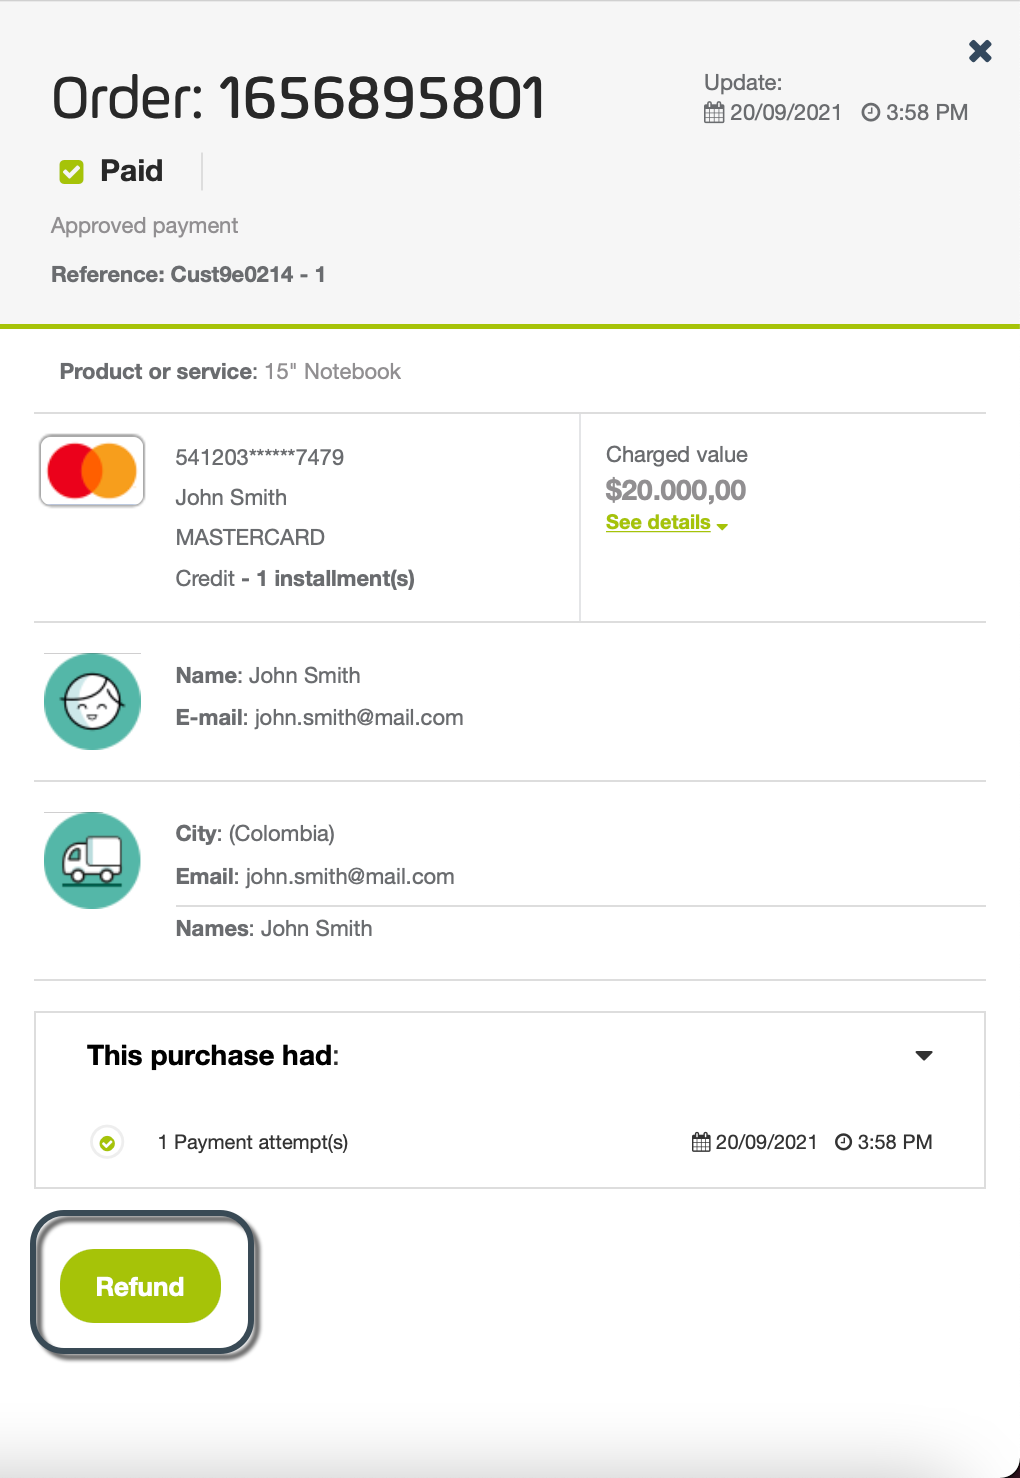
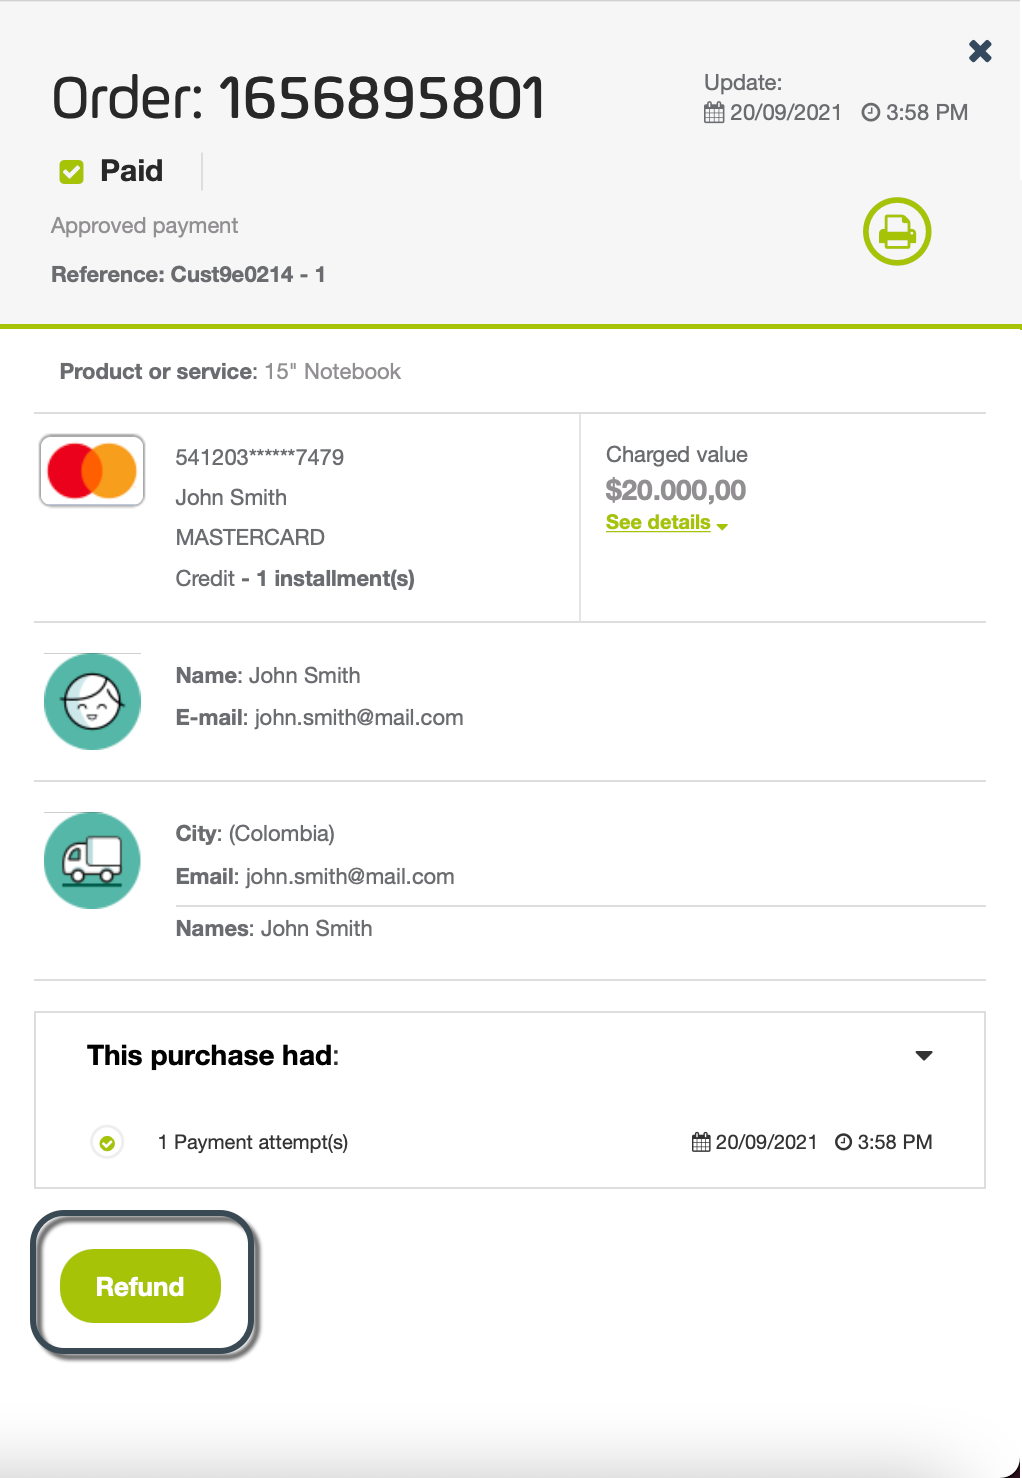
Changes for print button

diff --git a/content/es/PayU Module Documentation/PayU operations/Refunds-MP.md b/content/es/PayU Module Documentation/PayU operations/Refunds-MP.md
@@ -91,3 +91,32 @@ Para solicitar un reembolso, la transacción debe estar aprobada y sin ningún p
 7. Una vez aprobada la solicitud, el estado aparece en la venta.
 
 <img src="/assets/Refunds/Refunds_es_10.png" alt="PrintScreen" width="50%"/><br>
+
+## Obtener la confirmación del reembolso
+When the refund has been approved, you can generate a receipt or send the confirmation to the payer. To do this, follow the instructions depending on the operation you want to perform.
+
+### Generate the refund receipt
+To generate the refund receipt, locate the refunded sale and click the printer button located at the top right corner of the transaction details panel.
+
+<img src="/assets/Refunds/Refunds_en_11.png" alt="PrintScreen" width="50%"/><br>
+
+The print options of your browser opens, here you may physically print it or save it in PDF. The following image corresponds to the print options of Google Chrome.
+
+![PrintScreen](/assets/Refunds/Refunds_en_12.png)
+
+{{% alert title="Warning" color="warning"%}}
+The _Save to PDF_ option depends on your browser. If your browser does not support this feature, you can only print it using a printer.
+{{% /alert %}}
+
+### Send the refund confirmation to the payer
+Along with the print feature, you can also send a confirmation email to payer informing the result of the refund. This option is located in the _**Actions**_ section in the bottom of the transaction details panel.
+
+<img src="/assets/Refunds/Refunds_en_13.png" alt="PrintScreen" width="50%"/><br>
+
+Once you click this button, the payer receives an email with the details of the refunds.
+
+<img src="/assets/Refunds/Refunds_en_14.png" alt="PrintScreen" width="50%"/><br>
+
+{{% alert title="Note" color="info"%}}
+You can enable the automatic send of the refund confirmation to the payer. To know more details about this option, contact your Sales representative.
+{{% /alert %}}

diff --git a/content/en/PayU Module Documentation/PayU operations/Refunds-MP.md b/content/en/PayU Module Documentation/PayU operations/Refunds-MP.md
@@ -91,3 +91,32 @@ To request a refund, the transaction must be approved and without any pending di
 7. Once the request has been approved, the status appears in the sale.
 
 <img src="/assets/Refunds/Refunds_en_10.png" alt="PrintScreen" width="50%"/><br>
+
+## Getting the refund confirmation
+When the refund has been approved, you can generate a receipt or send the confirmation to the payer. To do this, follow the instructions depending on the operation you want to perform.
+
+### Generate the refund receipt
+To generate the refund receipt, locate the refunded sale and click the printer button located at the top right corner of the transaction details panel.
+
+<img src="/assets/Refunds/Refunds_en_11.png" alt="PrintScreen" width="50%"/><br>
+
+The print options of your browser opens, here you may physically print it or save it in PDF. The following image corresponds to the print options of Google Chrome.
+
+![PrintScreen](/assets/Refunds/Refunds_en_12.png)
+
+{{% alert title="Warning" color="warning"%}}
+The _Save to PDF_ option depends on your browser. If your browser does not support this feature, you can only print it using a printer.
+{{% /alert %}}
+
+### Send the refund confirmation to the payer
+Along with the print feature, you can also send a confirmation email to payer informing the result of the refund. This option is located in the _**Actions**_ section in the bottom of the transaction details panel.
+
+<img src="/assets/Refunds/Refunds_en_13.png" alt="PrintScreen" width="50%"/><br>
+
+Once you click this button, the payer receives an email with the details of the refunds.
+
+<img src="/assets/Refunds/Refunds_en_14.png" alt="PrintScreen" width="50%"/><br>
+
+{{% alert title="Note" color="info"%}}
+You can enable the automatic send of the refund confirmation to the payer. To know more details about this option, contact your Sales representative.
+{{% /alert %}}

diff --git a/content/en/PayU Module Documentation/Reports/Sales-report.md b/content/en/PayU Module Documentation/Reports/Sales-report.md
@@ -73,7 +73,7 @@ The _**Transaction details**_ panel has the following sections:
 
 |  | Name | Description |
 |:---:|---|---|
-| 1 | Order info | This section shows the Order Id, its latest update date, its status along with the status description, and the sale reference. |
+| 1 | Order info | This section shows the Order Id, its latest update date, its status along with the status description, and the sale reference.<br>This section also shows a button to let you print the details of the order. |
 | 2 | Product or service | Description of the product or service you provided in the sale. |
 | 3 | Payment method | Information of the Payment method used in the purchase. The information displayed in this section varies according to the payment method.<br>For pending cash payments, this section lets you see the payment receipt generated to the buyer. |
 | 4 | Values | This section shows the values involved in this transaction such as the _Value to charge (or charged)_, _Pending value_, _Refunded value_ (for refunds), _Expired value_ (for cash payments).  |
